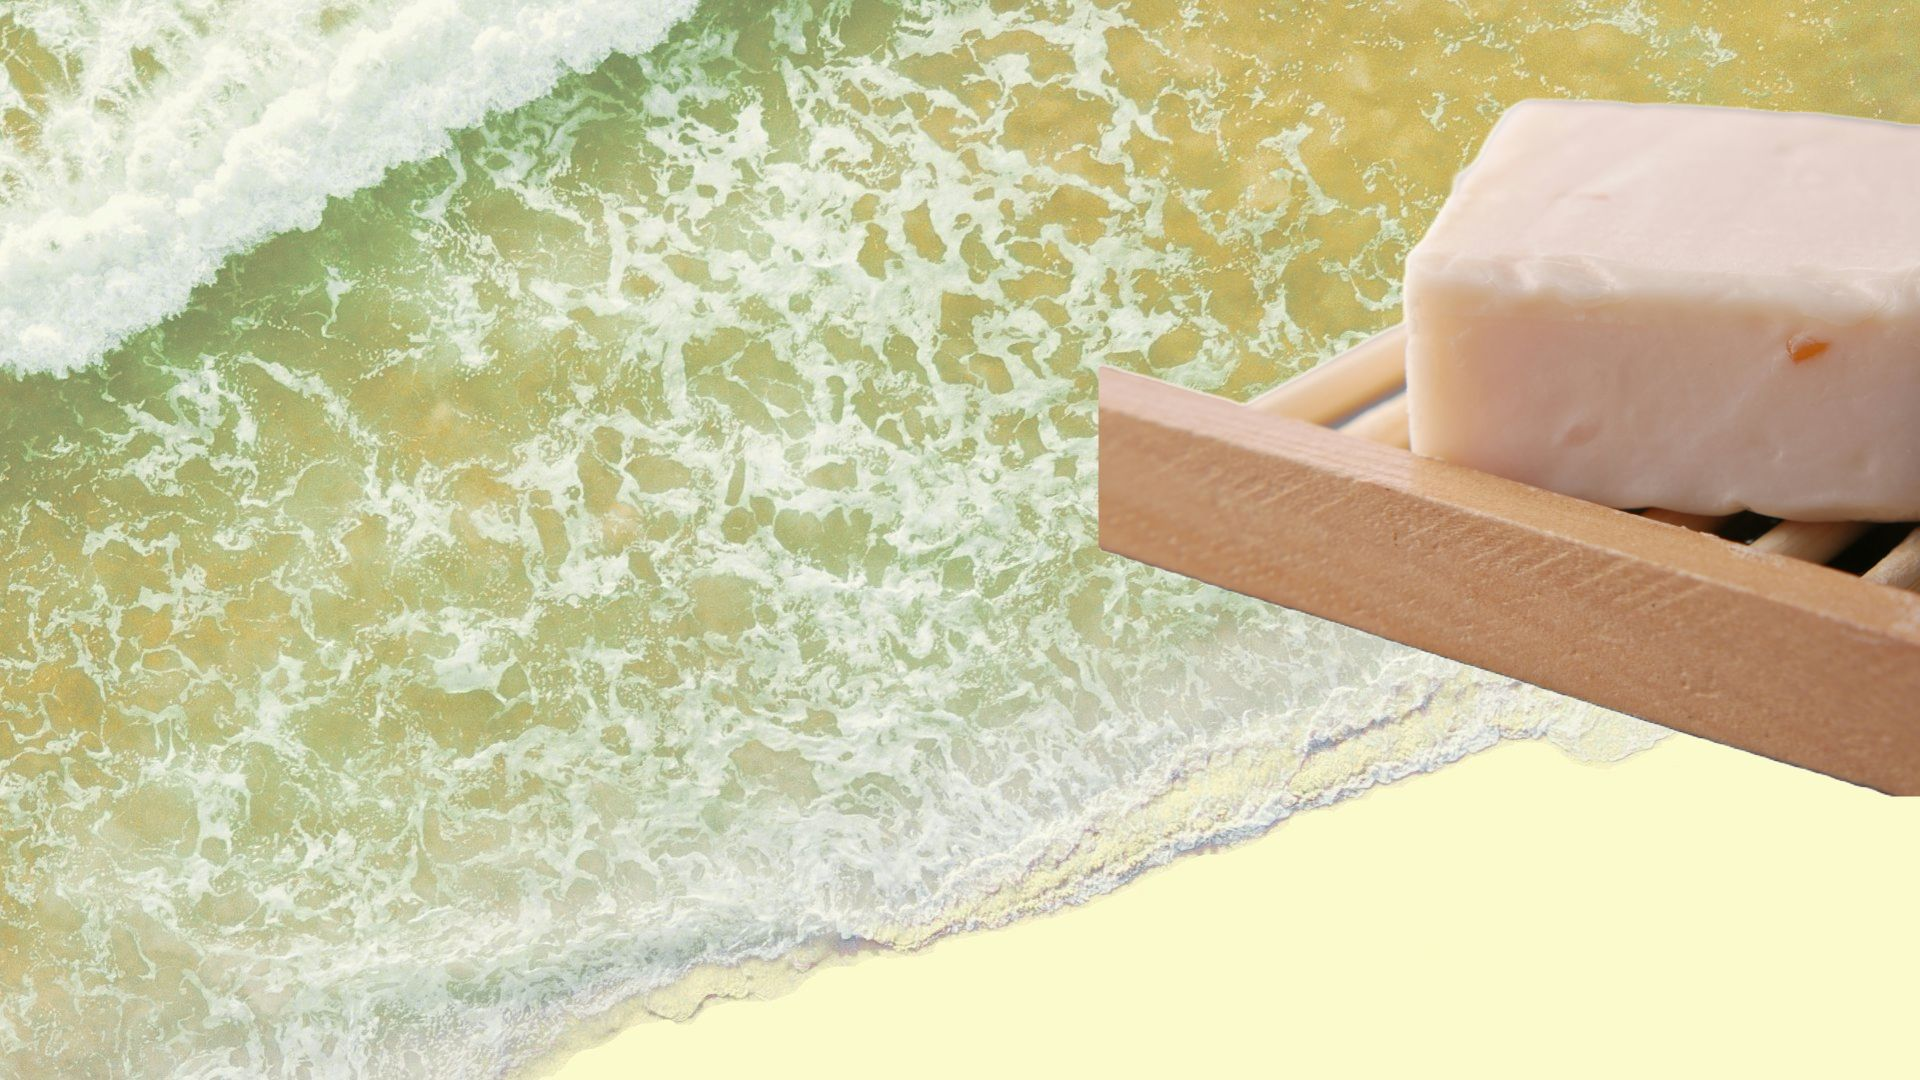
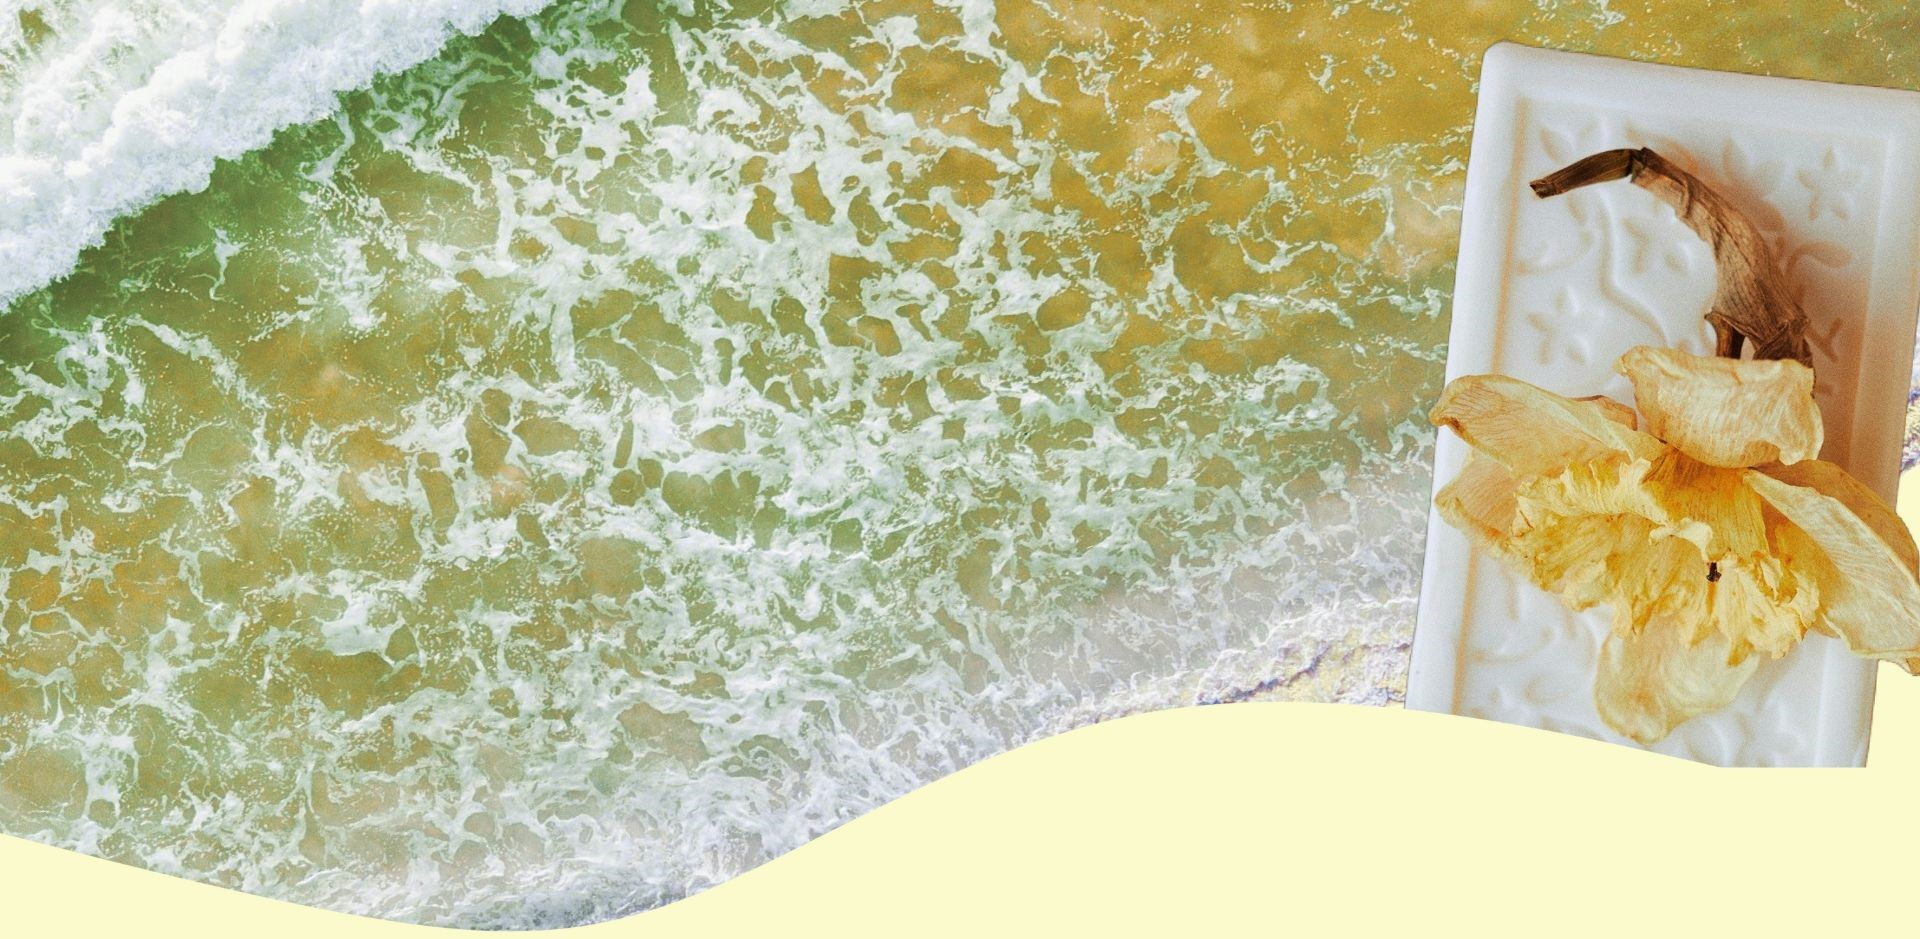
minor foter content changes; attributions page created

diff --git a/attributions.html b/attributions.html
@@ -1,0 +1,42 @@
+<!DOCTYPE html>
+<html lang="en">
+<head>
+    <meta charset="UTF-8">
+    <meta name="viewport" content="width=device-width, initial-scale=1.0">
+    <title>Attributions</title>
+    <link rel="stylesheet" href="style.css" />
+    <link rel="shortcut icon" href="images/favicon.png" type="image/x-icon" />
+</head>
+<body>
+    <main class="attributions-main">
+        <div><a href="index.html">Home</a></div>
+        <table class="attributions-table">
+                <caption>Image Attributions</caption>
+                <thead >
+                    <tr id="attributions-table-title-row">
+                        <th>Image</th>
+                        <th>Location</th>
+                        <th>Attribution</th>
+                    </tr>
+                </thead>
+            <tbody>
+
+                <tr>
+                    <td><a href="images/latherHeroImg.jpg" target="_blank"><img src="images/latherHeroImg-thumb.jpg" alt="thumbnail of hero image" width="100"></a></td>
+                    <td><a href="index.html">Home</a></td>
+                    <td>Image edited using photo by <a href="https://unsplash.com/@hermansyah?utm_content=creditCopyText&utm_medium=referral&utm_source=unsplash">Hermansyah</a> on <a href="https://unsplash.com/photos/beach-shore-during-day-time-7uXn7nudorc?utm_content=creditCopyText&utm_medium=referral&utm_source=unsplash">Unsplash</a> and photo by <a href="https://unsplash.com/@kikimora33?utm_content=creditCopyText&utm_medium=referral&utm_source=unsplash">Kate Laine</a> on <a href="https://unsplash.com/photos/a-yellow-flower-sitting-on-top-of-a-white-plate-hWV3WZKZd0s?utm_content=creditCopyText&utm_medium=referral&utm_source=unsplash">Unsplash</a>
+      
+                    </td>
+                </tr>
+                <tr>
+                    <td><a href="images/mobileLatherHeroImg.jpg" target="_blank"><img src="images/mobileLatherHeroImg-thumb.jpg" alt="thumbnail of hero image" width="100"></a></td>
+                    <td><a href="index.html">Home</a> (smaller screens)</td>
+                    <td>Image edited using photo by <a href="https://unsplash.com/@hermansyah?utm_content=creditCopyText&utm_medium=referral&utm_source=unsplash">Hermansyah</a> on <a href="https://unsplash.com/photos/beach-shore-during-day-time-7uXn7nudorc?utm_content=creditCopyText&utm_medium=referral&utm_source=unsplash">Unsplash</a> and photo by <a href="https://unsplash.com/@kikimora33?utm_content=creditCopyText&utm_medium=referral&utm_source=unsplash">Kate Laine</a> on <a href="https://unsplash.com/photos/a-yellow-flower-sitting-on-top-of-a-white-plate-hWV3WZKZd0s?utm_content=creditCopyText&utm_medium=referral&utm_source=unsplash">Unsplash</a>
+      
+                    </td>
+                </tr>
+            </tbody>
+        </table>
+    </main>
+</body>
+</html>

diff --git a/index.html b/index.html
@@ -87,10 +87,10 @@
 				<picture>
 					<source
 						media="(max-width: 600px)"
-						srcset="images/mobileLatherHeroImg4.jpg"
+						srcset="images/mobileLatherHeroImg.jpg"
 					/>
 					<img
-						src="images/Copy of latherHeroImg(5).jpg"
+						src="images/latherHeroImg.jpg"
 						alt="Handmade soap bar"
 					/>
 				</picture>
@@ -178,7 +178,7 @@
 					<p class="notes-content">	This website was created as part of a class project, and does not represent an actual business.</p>
 				</div>
 				<div class="notes-content">
-					Images used have been downloaded from different websites under their respective licensing guidelines, and may have been edited or used as is. Please click on <a href="attributions.html">this link</a> for attributions.
+					Images used have been downloaded from different websites under their respective licensing guidelines, and may have been edited or used as is. See our image <a href="attributions.html">attributions.</a>
 				</div>
 
 			</div>

diff --git a/style.css b/style.css
@@ -217,6 +217,44 @@ footer li {
   font-size: 0.8rem;
 }
 
+.attributions-main{
+	max-width: 80%;
+	margin: 10% auto 0 auto;
+	border: 2px solid var(--dark-clr);
+	border-radius: 5px;
+	padding: 2rem;
+}
+
+.attributions-table
+{
+	max-width: 60%;
+	text-align: center;
+	margin: 0 auto;
+}
+
+
+
+.attributions-table tr:nth-child(odd){
+	background-color: hsl(60, 82%, 79%);
+}
+
+#attributions-table-title-row{
+	background-color: var(--dark-clr);
+}
+
+.attributions-table td{
+	padding: 1rem;
+}
+
+.attributions-table tr td:nth-of-type(3){
+	max-width: 20%;
+	text-align: left;
+}
+
+.attributions-table img {
+	margin: 5px auto;
+}
+
 @media (min-width: 600px) {
 	header {
 		display: flex;
